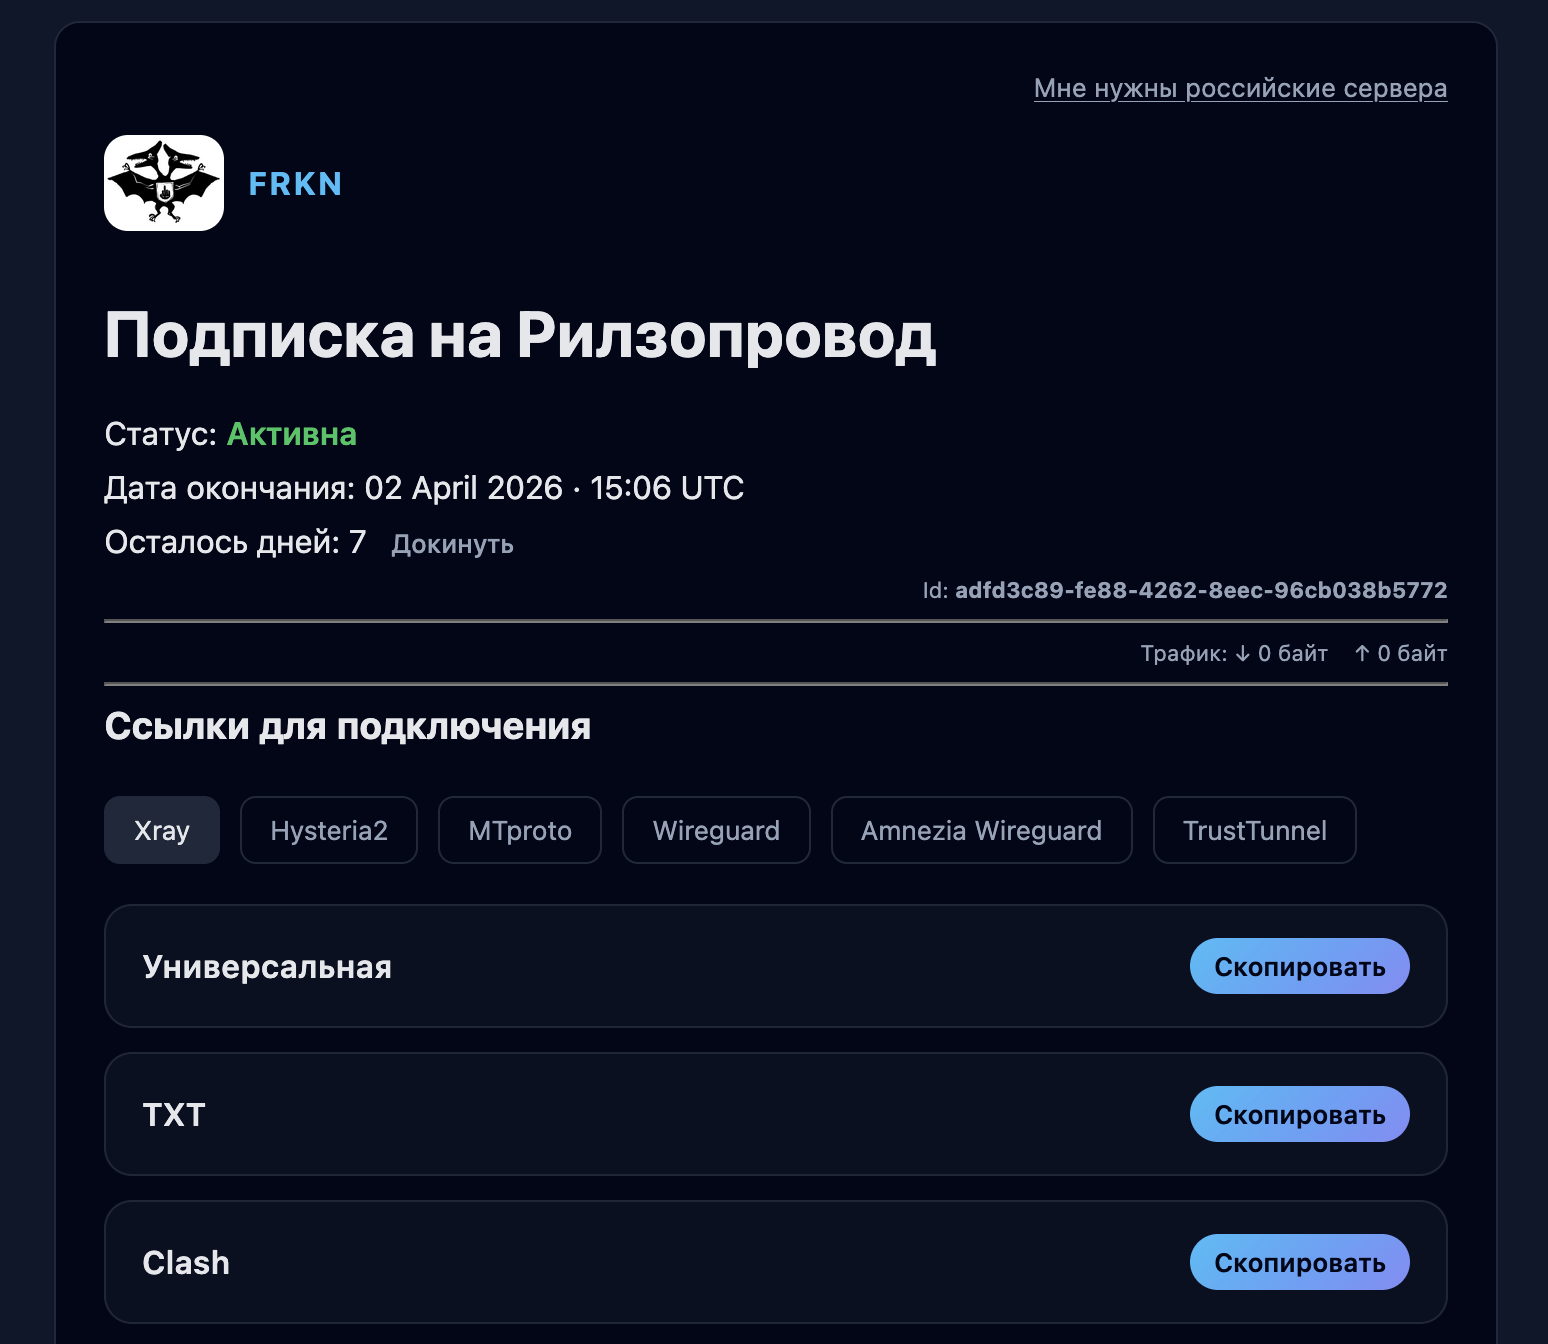
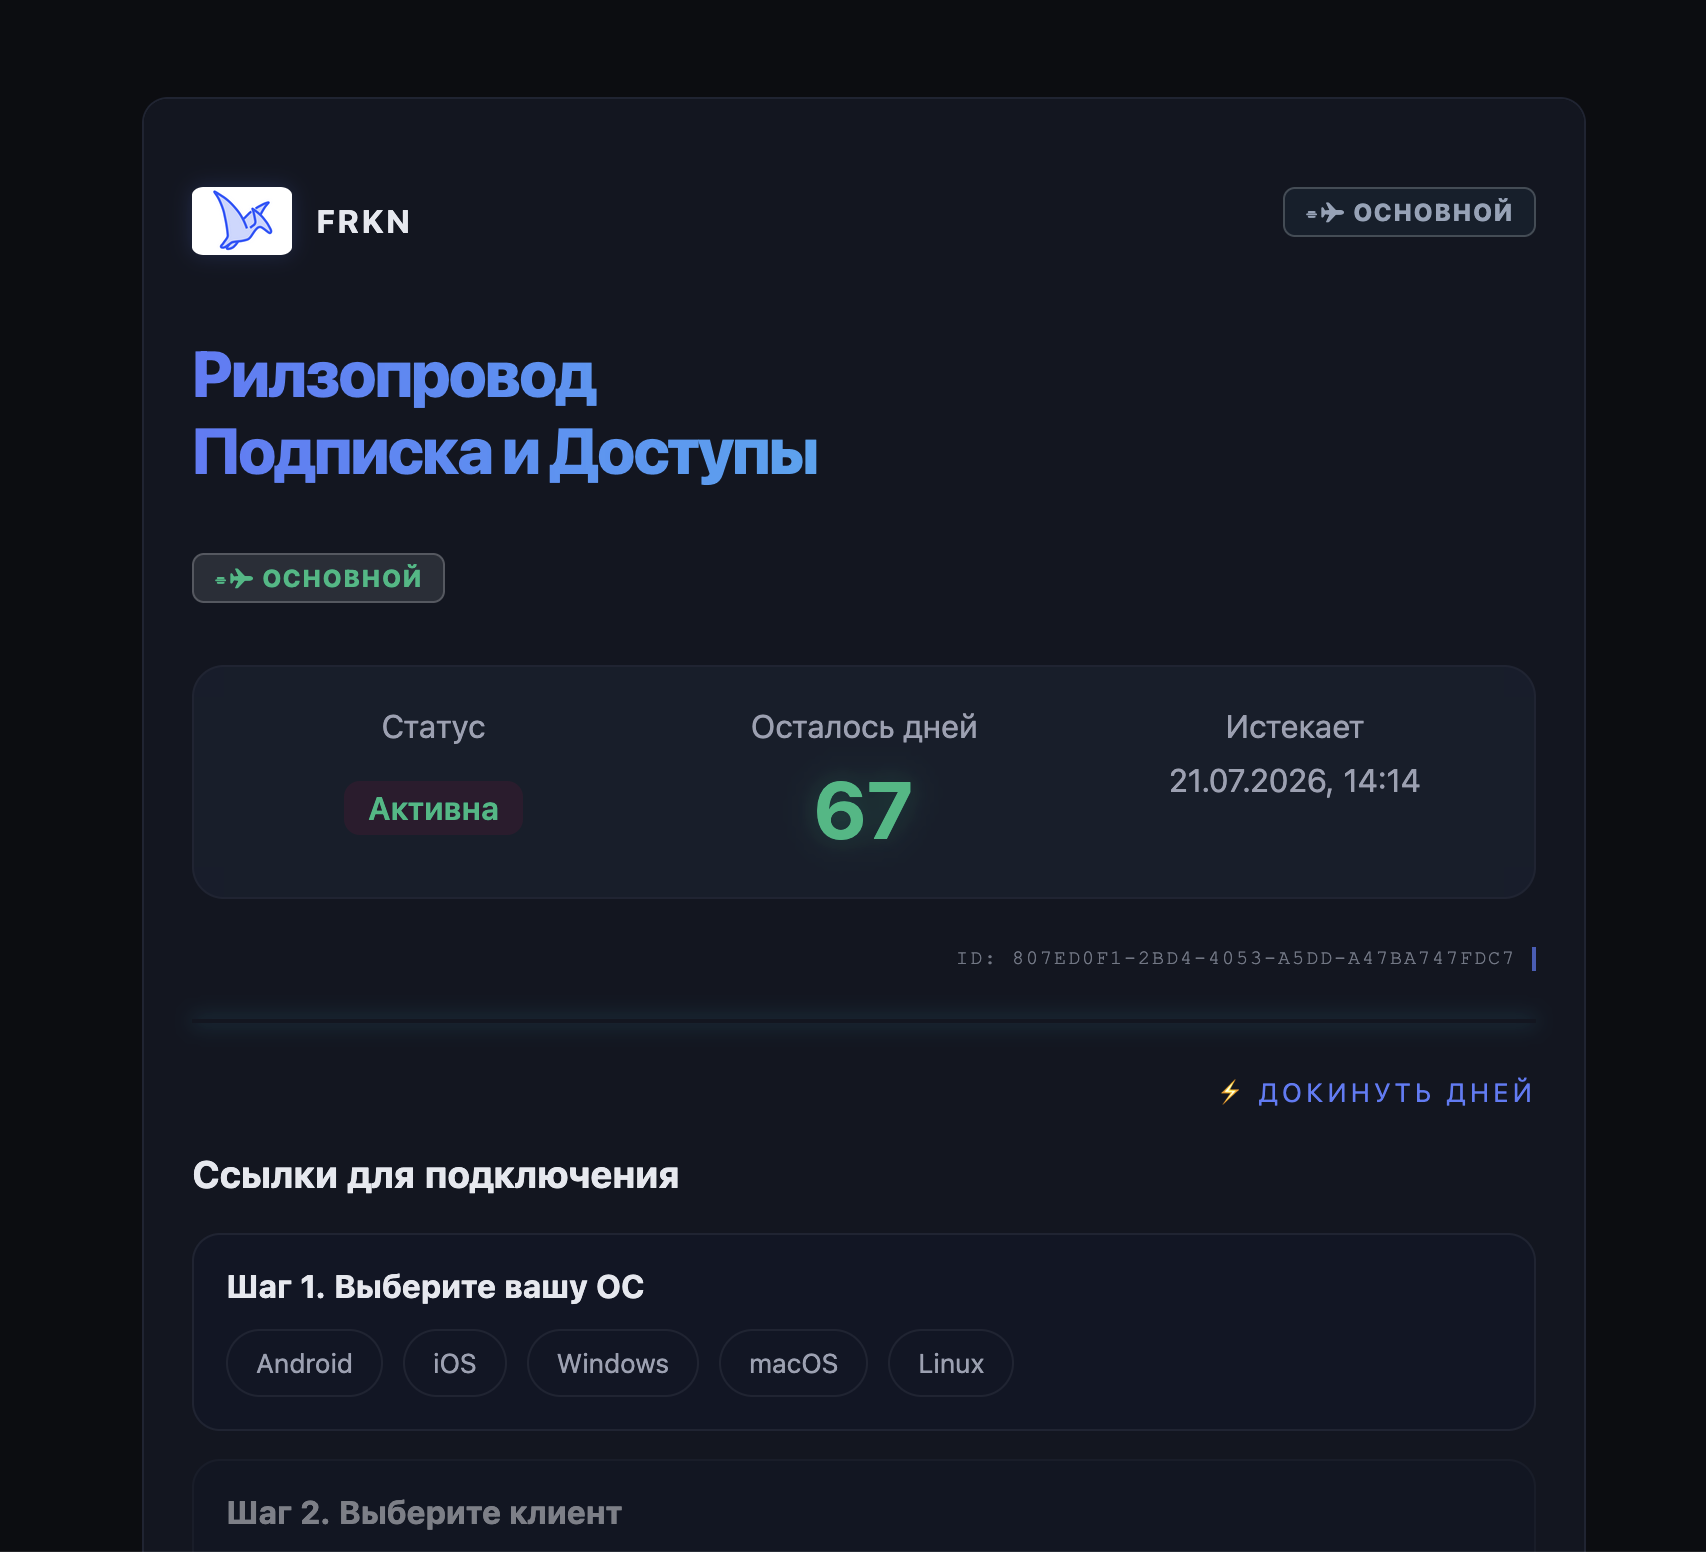
Hehe

diff --git a/info/subscriptions/index.html b/info/subscriptions/index.html
@@ -19,102 +19,93 @@
         </header>
 
         <section class="card" style="margin-top: 20px">
-          <p>
-            Подписка — это ваш персональный канал доступа к сервису. С ней вы
-            получаете уникальный идентификатор (ID) и возможность подключаться к
-            нашим серверам через разные протоколы, включая <b>Xray</b>,
-            <b>Hysteria2</b> и <b>MTproto</b>.
-          </p>
+  <h3>🚀 Что такое «Рилзопровод» и как это работает?</h3>
+  <p>
+    «Рилзопровод» — это не просто «подписка». Это твой защищённый канал
+   для любимых сервисов. С ним ты получаешь доступ к сети, где
+    всё работает быстро, стабильно и безопасно.
+  </p>
 
-          <img
+  <img
             src="/Images/sub1.png"
             alt="Скриншот подписки"
             class="responsive-img"
           />
 
-          <p>
-            Используйте
-            <a href="/#trial" class="text-link">форму на главной</a> для
-            получения Тест-драйва подписки на 24 часа
-          </p>
-          <p class="small">
-            Мы не храним ваш e-mail и не используем его для рассылок – он
-            необходим только для отправки информации о подписке
-          </p>
+  <h3>🎁 Что ты получаешь с подпиской?</h3>
+  <ul>
+    <li>
+      <strong>Уникальный ID</strong> — твой пропуск в систему. С его помошью ты всегда сможешь получить доступ к подписке и ссылкам доступа
+    </li>
+    <li>
+      <strong>Современные протоколы</strong> — <strong>Xray</strong> (максимум
+      обхода), <strong>Hysteria2</strong> (бешеная скорость) и
+      <strong>MTProto</strong> (для Telegram).
+    </li>
+    <li>
+      <strong>Стабильность 24/7</strong>
+    </li>
+  </ul>
 
-          <h3>Что вы видите на этой странице:</h3>
-          <ul>
-            <li>
-              <b>Статус подписки:</b> активна или просрочена. Показывает, можно
-              ли использовать сервис прямо сейчас.
-            </li>
-            <li>
-              <b>Дата окончания:</b> когда подписка истечёт. Планируйте
-              обновление заранее.
-            </li>
-            <li>
-              <b>Осталось дней:</b> количество дней до окончания действия
-              подписки.
-            </li>
-            <li>
-              <b>ID подписки:</b> уникальный идентификатор для вашего
-              подключения.
-            </li>
-            <li>
-              <b>Трафик:</b> отображает, сколько данных вы уже использовали
-              (загрузка и выгрузка).
-            </li>
-          </ul>
+  <h3>⚙ Как использовать подписку?</h3>
+  <ol>
+    <li>
+      <strong>Получи ID</strong> — после создания подписки (например, через
+      тест-драйв) или покупку ключа активации – у тебя будет уникальный идентификатор.
+    </li>
+    <li>
+      <strong>Загрузи приложение</strong> — подойдёт любой современный клиент
+      (Happ, v2rayN, Shadowrocket, Outline, Hiddify и другие).
+    </li>
+    <li>
+      <strong>Подключись</strong> — просто скопируй ссылку из этого кабинета,
+      отсканируй QR-код или вставь ID в приложение.
+    </li>
+  </ol>
 
-          <h3>Ссылки для подключения</h3>
-          <p>Вы можете подключаться через разные протоколы:</p>
-          <ul>
-            <li>
-              <b>Xray:</b> универсальная ссылка, TXT, Clash — для популярных
-              приложений.
-            </li>
-            <li>
-              <b>Hysteria2:</b> для приложений, которые поддерживают Hysteria2
-              (например, v2rayN, Shadowrocket).
-            </li>
-            <li><b>MTproto:</b> для прямого подключения в Telegram.</li>
-          </ul>
-          <p>
-            QR-коды позволяют быстро сканировать настройки прямо в приложении.
-          </p>
+  <h3>📊 Что значат цифры на экране?</h3>
+  <ul>
+    <li>
+      <strong>Статус</strong> — активна подписка или уже нет. Если «Истекла» —
+      пора продлить или активировать ключ.
+    </li>
+    <li>
+      <strong>Осталось дней</strong> — сколько ещё осталось до окончания
+      подписки. Зелёные цифры — всё отлично, красные — пора обновляться.
+    </li>
+    <li>
+      <strong>Истекает</strong> — точная дата, когда доступ закроется. Не
+      пропусти этот момент
+    </li>
+    <li>
+      <strong>ID подписки</strong> — твой персональный код, который нужен для
+      подключения через совместимые приложения.
+    </li>
+    <li>
+      <strong>Реферальный код</strong> — делись им с друзьями. За каждого
+      приглашённого ты и твой друг получите +7 дней к подписке бесплатно.
+    </li>
+  </ul>
 
-          <h3>Активация ключа</h3>
-          <p>
-            Если у вас есть <b>ключ активации</b>, введите его в поле ниже и
-            нажмите «Активировать». Подписка автоматически продлится на
-            указанное количество дней.
-          </p>
+  <h3>🔗 Как подключиться?</h3>
+  <p>
+    Используй раздел <strong>«Ссылки для подключения»</strong> выше. Выбери свою
+    операционную систему, подходящий клиент — и ты получишь готовую ссылку и
+    QR‑код для быстрого старта.
+  </p>
+  <p>
+    Если что-то пошло не так — просто напиши в поддержку
+    <a href="https://t.me/frkn_support" class="text-link">@frkn_support</a>. Мы
+    всегда на связи.
+  </p>
 
-          <img
-            src="/Images/sub2.png"
-            alt="Скриншот подписки"
-            class="responsive-img"
-          />
-
-          <h3>Реферальная программа</h3>
-          <p>Вы можете приглашать друзей, используя ваш реферальный код:</p>
-          <ul>
-            <li>Скопируйте ссылку для друга</li>
-            <li>Поделитесь ссылкой с другом</li>
-          </ul>
-          И вам и каждому, кто использует ваш код, начисляется по
-          <b>+7 дней</b> к подписке
-
-          <h3>Поддержка</h3>
-          <p>
-            Если возникнут вопросы, вы всегда можете написать нашей поддержке в
-            Telegram: <a href="https://t.me/frkn_support">@frkn_support</a>
-          </p>
-        </section>
-
-        <div id="footer-container"></div>
-      </div>
-    </section>
+  <hr />
+  <p class="small">
+    📌 Не храним логи, не следим за тобой. Только свобода и никакой магии.
+    <br />💡 Подписку можно продлить или активировать по ключу прямо на этой
+    странице — просто введи код в блоке ниже.
+  </p>
+</section>
 
     <script src="/scripts/analytics.js" defer></script>
     <script src="/scripts/containers.js"></script>

diff --git a/index.html b/index.html
@@ -40,19 +40,24 @@
       <section class="hero">
         <div class="hero-content">
           <p class="hero-subtitle">
-            Твой личный тоннель в быстрый интернет. <br />Без лагов — для видео
-            в 4K.
+            Твой личный проводник в быстрый интернет. <br />Без лагов — для
+            видео в 4K.
           </p>
           <div class="cta-group">
             <button class="btn try pulse" id="scrollToTrial">
               Попробовать бесплатно
             </button>
-            <a href="/pay"><button class="btn secondary">Все тарифы</button></a>
+            <br />
+
             <a href="/profile"
               ><button class="btn another">Уже есть подписка</button></a
             >
             <a href="/activate"
               ><button class="btn another">Активировать ключ</button></a
+            ><br />
+            <a href="/pay"><button class="btn secondary">Тарифы</button></a>
+            <a href="/pay"
+              ><button class="btn secondary pulse">Купить</button></a
             >
           </div>
         </div>

diff --git a/pay/index.html b/pay/index.html
@@ -422,7 +422,7 @@
         <div id="logo-container"></div>
       </header>
       <p class="subtitle">
-        Купите ключ активации для получения или продления подписки
+        Купите ключ активации для получения или продления подписки <br />
       </p>
 
       <div class="pricing-section">
@@ -469,8 +469,9 @@
         </div>
       </div>
 
+      <div class="section-title">БОЛЬШЕ ТАРИФОВ</div>
+
       <div class="pricing-section">
-        <div class="section-title">Короткие периоды</div>
         <div class="pricing-grid pricing-grid-3">
           <div class="price-card" data-duration="3" data-price="100">
             <h3>3 дня</h3>
@@ -512,7 +513,6 @@
       </div>
 
       <div class="pricing-section">
-        <div class="section-title">Среднесрочные тарифы</div>
         <div class="pricing-grid">
           <div class="price-card" data-duration="90" data-price="1500">
             <h3>3 месяца</h3>

diff --git a/subscription/index.html b/subscription/index.html
@@ -896,7 +896,10 @@
 
       <div class="main-content" id="main-content">
         <section class="hero">
-          <h3 class="hero-title">Рилзопровод: Подписка</h3>
+          <h3 class="hero-title">
+            Рилзопровод <br />
+            Подписка и Доступы
+          </h3>
           <div class="hero-content">
             <div class="title-group">
               <span id="env-badge" class="env-badge available">...</span>
@@ -948,7 +951,9 @@
 
             <div class="accordion-body">
               <div class="tabs">
-                <button class="tab active" data-tab="hysteria">Hysteria2</button>
+                <button class="tab active" data-tab="hysteria">
+                  Hysteria2
+                </button>
                 <button class="tab" data-tab="mtproto">MTProto</button>
                 <button class="tab" data-tab="wireguard">WireGuard</button>
               </div>

diff --git a/styles.css b/styles.css
@@ -501,6 +501,12 @@ button {
   padding: 16px 22px;
   font-weight: 700;
 }
+.btn.pay {
+  margin-top: 10px;
+  font-size: 16px;
+  padding: 16px 22px;
+  font-weight: 700;
+}
 .btn:hover {
   opacity: 0.9;
 }
